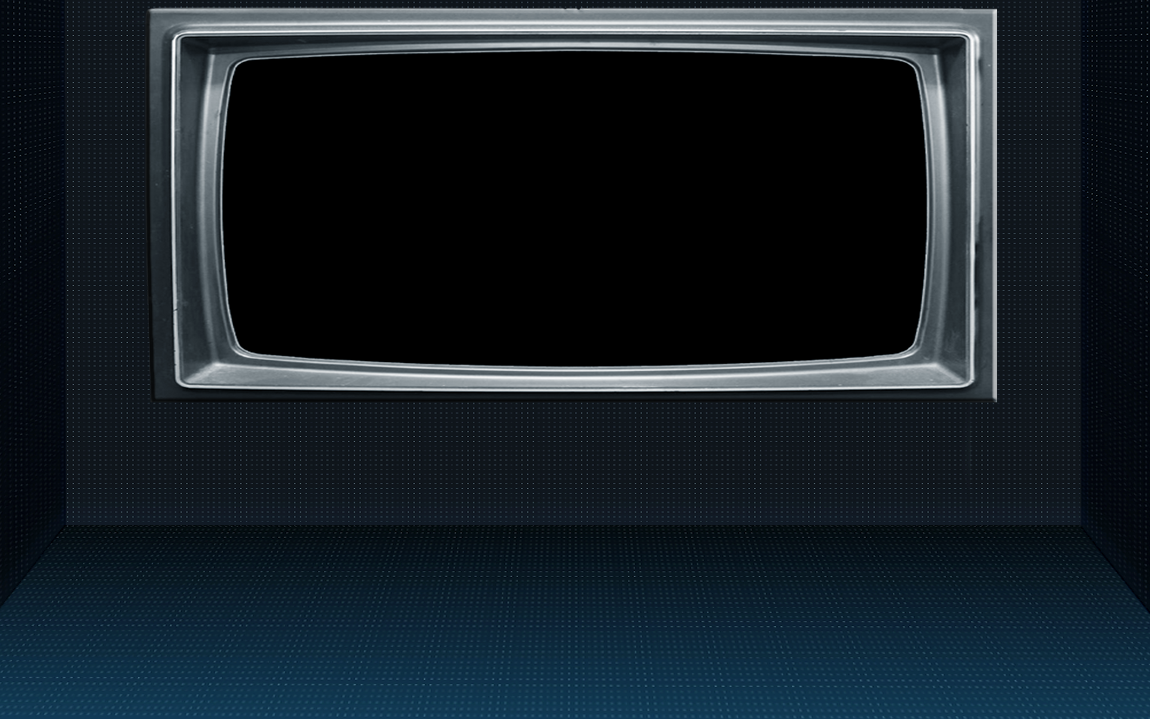
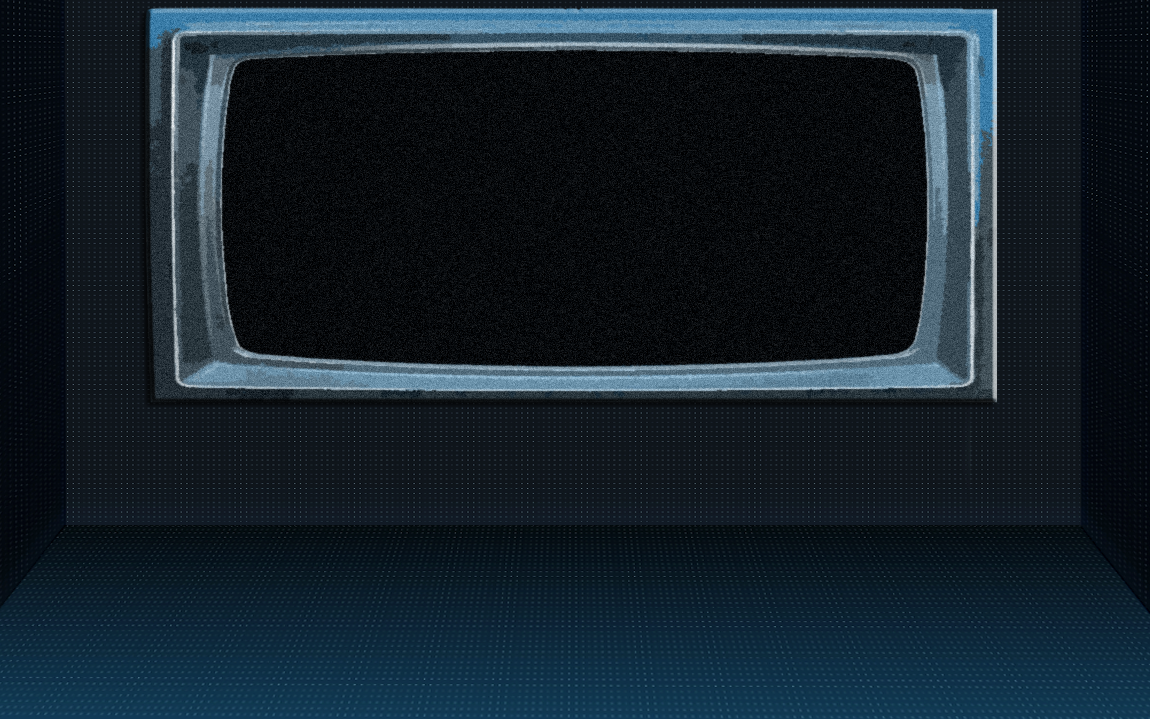
screen for enc game

diff --git a/encryption.c b/encryption.c
@@ -35,9 +35,8 @@ int encryption(Display *d)
   grid[7][1].background = newEntity(passable,'E',7,1);
   grid[7][16].background = newEntity(passable,'&',7,16);
   fillGrid(grid);   /* layer of floortiles */
-  drawBackground(d,1);
-  drawEntities(d, grid);
-  drawFrame(d, 20 );
+
+  encGameDraw(d, grid, printHint, hintWord);
   /* MAIN LOOP */
   while(!d->finished){
       char reset[]={"reset"};
